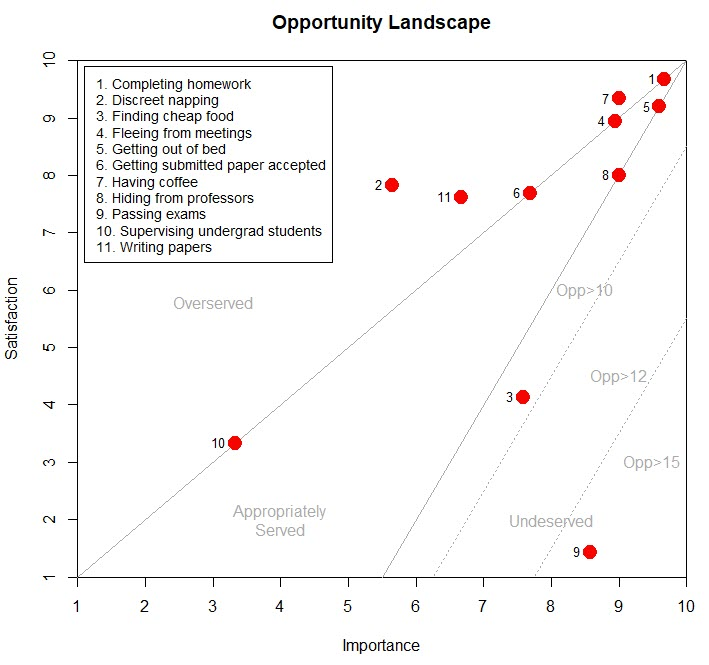
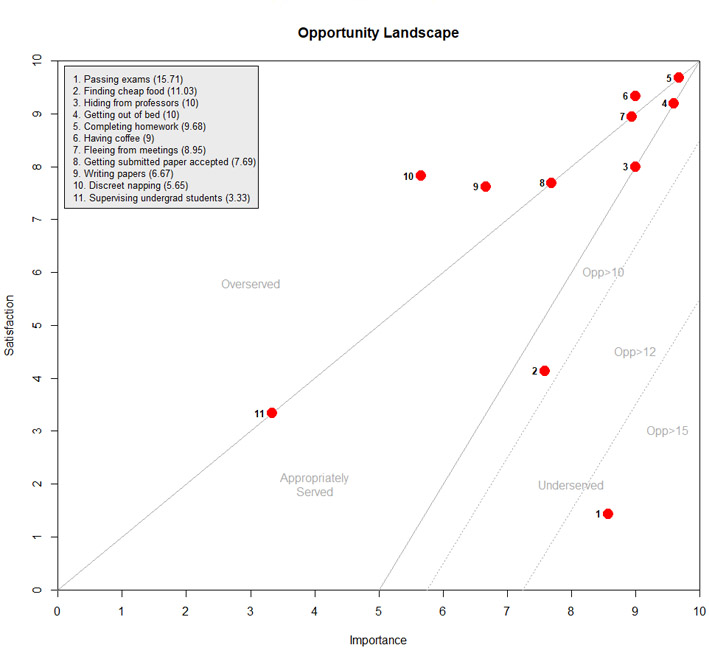
Fixed values in sample data

diff --git a/_posts/2018-11-27-Opportunity-Score.md b/_posts/2018-11-27-Opportunity-Score.md
@@ -83,17 +83,17 @@ This is pretty easy:
 I made up some answer values for the "surviving grad school" example:
 
 | __Outcomes__ | __Importance (%==4 or 5)__ | __Satisfaction (%==4 or 5)__ | __OpScore__ |
-| Writing papers | 6.7 | 7.6 | 12.4 |
-| Getting submitted paper accepted | 7.7 | 7.7 | 13.5 |
-| Completing homework | 9.7 | 9.7 | 15.4 |
-| Passing exams | 8.6 | 1.4 | 15.7 |
-| Supervising undergrad students | 3.3 | 3.3 | 9.1 |
-| Getting out of bed | 9.6 | 9.2 | 15.4 |
-| Having coffee | 9.0 | 9.3 | 14.8 |
-| Finding cheap food | 7.6 | 4.1 | 13.4 |
-| Discreet napping | 5.7 | 7.8 | 11.4 |
-| Fleeing from meetings | 8.9 | 8.9 | 14.7 |
-| Hiding from professors | 9.0 | 8.0 | 14.8 |
+| Passing exams | 8.57 | 1.43 | 15.71 |
+| Finding cheap food | 7.59 | 4.14 | 11.03 |
+| Hiding from professors | 9.00 | 8.00 | 10.00 |
+| Getting out of bed | 9.60 | 9.20 | 10.00 |
+| Completing homework | 9.68 | 9.68 | 9.68 |
+| Having coffee | 9.00 | 9.33 | 9.00 |
+| Fleeing from meetings | 8.95 | 8.95 | 8.95 |
+| Getting submitted paper accepted | 7.69 | 7.69 | 7.69 |
+| Writing papers | 6.67 | 7.62 | 6.67 |
+| Discreet napping | 5.65 | 7.83 | 5.65 |
+| Supervising undergrad students | 3.33 | 3.33 | 3.33 |
 
 _NOTE: Ulwick normalizes the percentages to 10 instead of 100. I'm not sure why, but this sometimes leads to confusion as the first impulse is to normalize the 1-5 question scale to 10 (by multipliying by 2)._
 
